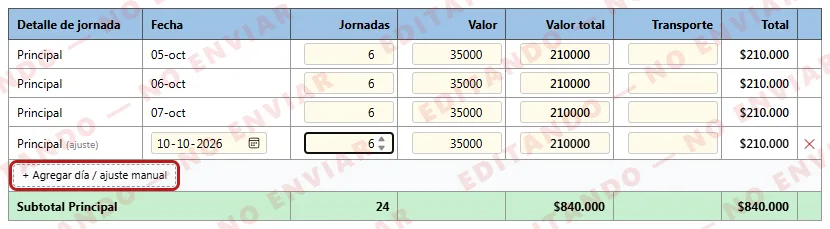
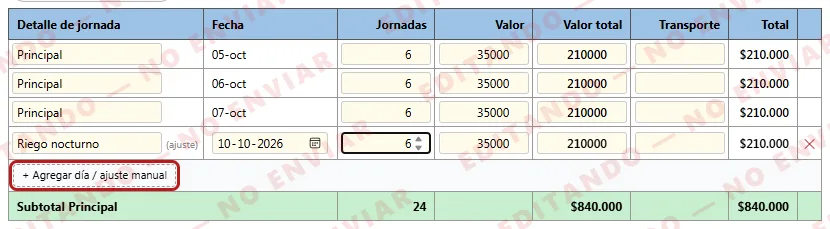
chargeDayDetail

diff --git a/src/screens/cycleDetail/cycleSummaryModal/LaborTable.jsx b/src/screens/cycleDetail/cycleSummaryModal/LaborTable.jsx
@@ -72,13 +72,14 @@ export function LaborTable({
   const columns = laborColumns(section, { mode, hiddenColumns, catalogs });
   const dataColumns = columns.filter((c) => c.key !== "detail" && c.key !== "date");
   const dateColumn = columns.find((c) => c.key === "date");
+  const detailColumn = columns.find((c) => c.key === "detail");
 
   // En una tabla fusionada cada fila trae su labor de origen (`_laborId`):
   // las ediciones vuelven a esa labor.
   const laborOf = (r) => r._laborId || laborId;
-  const handleField = (r, field, raw) => {
+  const handleField = (r, field, raw, text = false) => {
     if (!onEditRow) return;
-    const value = raw === "" ? "" : Number(raw);
+    const value = text || raw === "" ? raw : Number(raw);
     onEditRow(laborOf(r), r, { [field]: value });
   };
   const handleDateChange = (r, raw) => {
@@ -123,6 +124,17 @@ export function LaborTable({
     }
     const edit = editable && col.edit ? col.edit(r) : null;
     if (edit) {
+      if (edit.text) {
+        return (
+          <input
+            type="text"
+            value={edit.raw ?? ""}
+            onChange={(e) => handleField(r, edit.field, e.target.value, true)}
+            style={{ ...chargeInputStyle, width: 150, textAlign: "left" }}
+            title={edit.title}
+          />
+        );
+      }
       return (
         <input
           type="number"
@@ -167,8 +179,8 @@ export function LaborTable({
             const badge = dateColumn.badge(r);
             return (
               <tr key={rowKey} style={r.notCharged ? NOT_CHARGED_ROW : undefined} title={r.notCharged ? NOT_CHARGED_TITLE : undefined}>
-                <td style={cell}>
-                  {r._laborName || displayName}
+                <td style={{ ...cell, padding: editable ? 3 : "5px 8px" }}>
+                  {renderCell(detailColumn, r)}
                   {r.notCharged && (
                     <span style={{ color: "#888", marginLeft: 4, fontSize: 10 }}>(no se cobra)</span>
                   )}

diff --git a/src/utils/summaryTables.test.js b/src/utils/summaryTables.test.js
@@ -173,6 +173,23 @@ describe("laborColumns", () => {
     expect(cellText(cols[4], cols[4].value(section.rows[0]))).toBe("$10.000");
   });
 
+  it("en cobrar el detalle de cada día se edita y cae al nombre de la labor", () => {
+    const charge = chargeLaborsOf(laborsData, [], { LX: { rowOverrides: { [D2]: { detail: "Flete incluido" } } } }, {});
+    const sections = summarySections({ mode: "charge", labors: charge, carriers: [], titles, carrierById });
+    const detailColumnOf = (key) => {
+      const section = sections.find((s) => s.key === key);
+      return { section, col: laborColumns(section, { mode: "charge", catalogs: {} }).find((c) => c.key === "detail") };
+    };
+    const lm = detailColumnOf("LM");
+    expect(cellText(lm.col, lm.col.value(lm.section.rows[0]))).toBe("Principal");
+    const lx = detailColumnOf("LX");
+    expect(cellText(lx.col, lx.col.value(lx.section.rows[0]))).toBe("Flete incluido");
+    expect(lx.col.edit(lx.section.rows[0])).toMatchObject({ field: "detail", raw: "Flete incluido", text: true });
+    const [paySection] = summarySections({ mode: "pay", labors: laborsData, carriers: [], titles, carrierById });
+    const payDetail = laborColumns(paySection, { mode: "pay", catalogs: {} }).find((c) => c.key === "detail");
+    expect(payDetail.edit(paySection.rows[0])).toBe(null);
+  });
+
   it("respeta las columnas ocultas y solo deja editar en cobrar", () => {
     const charge = chargeLaborsOf(laborsData, [], {}, {});
     const [section] = summarySections({ mode: "charge", labors: charge, carriers: [], titles, carrierById });

diff --git a/src/utils/cycleCharge.js b/src/utils/cycleCharge.js
@@ -187,7 +187,10 @@ export function chargeLaborsOf(laborsData, importedLaborsData, laborCharges, cat
       const workerCount = ov.workerCount != null && ov.workerCount !== ""
         ? Number(ov.workerCount)
         : Number(r.workerCount) || 0;
-      const hasOverride = Object.keys(ov).length > 0;
+      // El detalle del día reemplaza al nombre de la labor; por sí solo no
+      // ajusta el cobro de la fila.
+      const chargedDetail = filled(ov.detail) ? String(ov.detail) : null;
+      const hasOverride = Object.keys(ov).some((k) => k !== "detail");
       return {
         ...r,
         notCharged: isNotCharged(hasOverride, amount + transport),
@@ -201,6 +204,7 @@ export function chargeLaborsOf(laborsData, importedLaborsData, laborCharges, cat
         chargedAmount: amount,
         chargedTransport: transport,
         chargedWorkerCount: workerCount,
+        chargedDetail,
         rowKey: newKey,
         isExtra: false,
         hasOverride,
@@ -246,6 +250,7 @@ export function chargeLaborsOf(laborsData, importedLaborsData, laborCharges, cat
         chargedAmount: amount,
         chargedTransport: Number(ex.transport) || 0,
         chargedWorkerCount: ex.workerCount != null && ex.workerCount !== "" ? Number(ex.workerCount) : 0,
+        chargedDetail: filled(ex.detail) ? String(ex.detail) : null,
         rowKey: `extra:${ex.id}`,
         isExtra: true,
         extraId: ex.id,

diff --git a/src/utils/cycleCharge.test.js b/src/utils/cycleCharge.test.js
@@ -62,6 +62,20 @@ describe("chargeLaborsOf: tarifa de cobro", () => {
     expect(cl.chargedTotals.workerDays).toBe(2 + 4);
   });
 
+  it("el detalle de un día se guarda por fila y por sí solo no ajusta el cobro", () => {
+    const cl = chargeOf(MAIN, mainDays, {
+      L1: {
+        rowOverrides: { [D1]: { detail: "Día de lluvia" } },
+        extraRows: [{ id: "x1", date: D3, qty: 1, rate: "", amount: "", detail: "Ajuste de prueba" }],
+      },
+    });
+    const [r1, r2, extra] = cl.chargedRows;
+    expect([r1.chargedDetail, r1.hasOverride, r1.notCharged]).toEqual(["Día de lluvia", false, false]);
+    expect([r2.chargedDetail, r2.hasOverride]).toEqual([null, false]);
+    expect(extra.chargedDetail).toBe("Ajuste de prueba");
+    expect(cl.chargedTotals.amount).toBe(50000 + 25000 + 25000);
+  });
+
   it("un día ajustado a $0 no se cobra ni suma a los totales", () => {
     const cl = chargeOf(MAIN, mainDays, { L1: { rowOverrides: { [D1]: { qty: 0 } } } });
     expect(cl.chargedRows.map((r) => [r.date, r.chargedAmount, r.notCharged])).toEqual([

diff --git a/src/utils/summaryTables.js b/src/utils/summaryTables.js
@@ -214,8 +214,16 @@ export function laborColumns(section, { mode, hiddenColumns = new Set(), catalog
   const rowTransport = (r) => (isCharge ? Number(r.chargedTransport) || 0 : 0);
   const editIf = (field, raw, extra = {}) => (isCharge ? { field, raw, ...extra } : null);
 
+  const detailOf = (r) => r.chargedDetail || r._laborName || displayName;
   const cols = [
-    { key: "detail", label: "Detalle de jornada", kind: "text", value: (r) => r._laborName || displayName },
+    {
+      key: "detail", label: "Detalle de jornada", kind: "text",
+      value: detailOf,
+      edit: (r) => editIf("detail", detailOf(r), {
+        text: true,
+        title: "Detalle de este día. Si lo dejas vacío, se usa el de la labor.",
+      }),
+    },
     { key: "date", label: "Fecha", kind: "text", value: (r) => dateLabel(r.date), badge: badgeOf },
   ];
   const chargesOvertime = (section.overtimeToggles || []).some((t) => t.on) || (isHE && !section.overtimeToggles);

diff --git a/src/screens/cycleDetail/cycleSummaryModal/useSummarySettings.js b/src/screens/cycleDetail/cycleSummaryModal/useSummarySettings.js
@@ -209,9 +209,9 @@ export function useSummarySettings({ cycle, cycleId, faena, open, subfaena, toas
 
   // Overrides por fila (cobrar). Cada labor guarda un mapa { rowKey -> patch }
   // con el rowKey de la fila del día: la fecha, o fecha y tier/etapa en trato
-  // y tratoEtapas. El patch puede traer qty, overtimeHours, rate, amount,
-  // transport o workerCount, todos opcionales; los que faltan toman el valor
-  // base. Las filas extra se editan en `extraRows`.
+  // y tratoEtapas. El patch puede traer detail, qty, overtimeHours, rate,
+  // amount, transport o workerCount, todos opcionales; los que faltan toman el
+  // valor base. Las filas extra se editan en `extraRows`.
   const updateChargeLaborRow = (laborId, rowKey, patch) => {
     setCharge((prev) => {
       const labor = prev.labors[laborId] || {};

diff --git a/docs/screens/summaries.md b/docs/screens/summaries.md
@@ -11,7 +11,7 @@
     - **Una labor al día también puede cobrar horas extras** (pago al día, supervisión y adicional; `DAY_LABOR_TYPES`, `utils/cycleCharge.js`): lleva el mismo interruptor, que parte apagado (`chargeOvertime: true` lo enciende). Encendido pide el **Valor hora** de la labor (`cobrar.labors[laborId].overtimeRate`) y suma la columna Horas extras, donde las horas de cada día se escriben a mano (`rowOverrides[date].overtimeHours`, o en una fila manual): la fila cobra jornadas × valor + horas × valor hora. Sin valor de la hora, las horas no suman y el campo se marca en rojo. En pagar no cambia nada.
     - **El interruptor** (`OvertimeSwitch`, en `LaborTable`) se ve solo en edición, sobre la tabla: verde encendido y gris apagado.
   - **Tarifa de cobro sugerida** (`chargeLaborsOf`): la mediana del precio por día de la labor, con el promedio como referencia en el editor de tarifas cuando difiere más de un 10%. En **tratoHE** es la tarifa HE de la labor (`overtimeRate`, o 3.500 si no tiene): la hora extra se cobra a lo mismo que se paga, sin ganancia. Cada fila se cobra como base + horas a cobrar × tarifa, sin los bonos. Una tarifa puesta en el editor manda sobre la sugerida.
-  - **Modo Cobrar editable inline**: cada fila de `LaborTable`/`TransportTable` muestra inputs editables (`<input type=number>`) en las celdas de Cantidad/Jornadas/HE/Valor/Valor total. Los overrides se persisten por ciclo en `cobrar.labors[laborId].rowOverrides[date] = { qty?, overtimeHours?, rate?, amount?, workdayCount?, workdayRate? }`. Vaciar un input vuelve al valor base. También se pueden **agregar filas manuales** ("+ Agregar día / ajuste manual") que se guardan en `cobrar.labors[laborId].extraRows[]` con un `id` único; arrancan con `qty/rate/amount = ""` (no `0`) para que el `computedAmount = qty × rate` se aplique en cuanto el usuario tipea — si arrancaran en `0`, el override `amount=0` bloquea la multiplicación y la fila queda en `$0`. Aparecen mezcladas en la tabla con badge `(ajuste)` y botón `✕` para eliminar. Para labores `trato`, las filas extra **heredan la `unit` dominante** del labor (la más frecuente entre las filas regulares) para que `formatRowMetric` muestre "X saco" en vez de solo "X". Mismo modelo para transportistas (`cobrar.carriers[carrierId].rowOverrides/extraRows`). El `grandTotalCharge` usa `chargedTotals.amount` (con los overrides aplicados).
+  - **Modo Cobrar editable inline**: cada fila de `LaborTable`/`TransportTable` muestra inputs editables en las celdas de **Detalle de jornada** (texto) y Cantidad/Jornadas/HE/Valor/Valor total (`<input type=number>`). Los overrides se persisten por ciclo en `cobrar.labors[laborId].rowOverrides[date] = { detail?, qty?, overtimeHours?, rate?, amount?, workdayCount?, workdayRate? }`. El `detail` de un día reemplaza al nombre de la labor solo en esa fila y no ajusta el cobro; vacío vuelve al nombre de la labor. Vaciar un input vuelve al valor base. También se pueden **agregar filas manuales** ("+ Agregar día / ajuste manual") que se guardan en `cobrar.labors[laborId].extraRows[]` con un `id` único; arrancan con `qty/rate/amount = ""` (no `0`) para que el `computedAmount = qty × rate` se aplique en cuanto el usuario tipea — si arrancaran en `0`, el override `amount=0` bloquea la multiplicación y la fila queda en `$0`. Aparecen mezcladas en la tabla con badge `(ajuste)` y botón `✕` para eliminar. Para labores `trato`, las filas extra **heredan la `unit` dominante** del labor (la más frecuente entre las filas regulares) para que `formatRowMetric` muestre "X saco" en vez de solo "X". Mismo modelo para transportistas (`cobrar.carriers[carrierId].rowOverrides/extraRows`). El `grandTotalCharge` usa `chargedTotals.amount` (con los overrides aplicados).
     - **Un día ajustado a $0 no se cobra** (`notCharged`, `utils/cycleCharge.js`): las jornadas, la cantidad, el valor o las vueltas en 0 dejan la fila fuera de los totales, y `summarySections` la saca del resumen bloqueado, de lo que se copia o imprime y del 📊 Excel. En Editando se ve en gris con "(no se cobra)", para volver a cobrarla escribiendo el valor de nuevo. Sirve para cobrar solo los días nuevos de un ciclo que ya se cobró en parte. En tratoHE, un día con las jornadas en 0 sigue mientras cobre horas extras. Las filas manuales no cuentan.
   - **Candado 🔒 Bloqueado / ✏ Editando (solo modo Cobrar)**: control segmentado en la barra superior; `editMode` **arranca en `false`** (bloqueado). Bloqueado = el resumen no se toca: sin inputs por fila, sin botones `+`/`✕`, y los paneles "Personalizar títulos", "Editar tarifas cobro" e "Importar ciclos anteriores" ni se muestran. En Editando se renderiza una **marca de agua "EDITANDO — NO ENVIAR"** (componente `EditingWatermark`) *dentro* del nodo `printRef`, para que marque cualquier screenshot manual, y **📋 Copiar imagen / 📥 Descargar PNG / 🖨 Imprimir quedan bloqueados**: abren un `ConfirmDialog` con acción "Bloquear y copiar/descargar/imprimir" que apaga `editMode` y recién después captura (espera dos `requestAnimationFrame` — capturar en el mismo handler sacaría el DOM viejo, con los inputs). **📊 Excel no se bloquea**: se arma desde los datos (las mismas secciones y columnas que la tabla), no del DOM, así que no lleva inputs ni marca de agua. En modo Pagar no existe el candado.
   - **Observaciones por día (solo pagar)**: anexo al pie del printable con las anotaciones que en la grilla del ciclo solo se ven pasando el mouse por el encabezado de cada fecha. Agrupadas por día y, dentro del día, una línea por labor. Va **después del total** a propósito: es contexto de la jornada, no parte del cálculo.

diff --git a/docs/data-model.md b/docs/data-model.md
@@ -637,7 +637,7 @@ Colección aparte y no un campo en `cycles` porque los docs de `cycles` se traen
 | Campo | Tipo | Notas |
 |---|---|---|
 | `id` (docId) | ref→`cycles` | el cycleId |
-| `cobrar` | object | `{ labors, carriers, withIva, discount, discountNote, pendingBalance, pendingBalanceNote, hiddenColumns, shownColumns }` — ver `labors[laborId].rowOverrides/extraRows` en `docs/screens/summaries.md`. `hiddenColumns` son las columnas que se ocultaron y `shownColumns`, las que empiezan ocultas (`personas`) y se mostraron. En tratoHE, un override o una fila manual puede traer `workdayCount` y `workdayRate` (jornadas y valor de la jornada que se cobran), y `labors[laborId].chargeOvertime: false` deja de cobrar las horas extras de la labor. En una labor al día (pago al día, supervisión o adicional) es al revés: `chargeOvertime: true` le cobra horas extras, a `labors[laborId].overtimeRate` (el valor de la hora) por las `overtimeHours` de cada override o fila manual. `labors[laborId].mergeInto?: laborId` muestra esa labor dentro de la tabla de otra (solo presentación). `importedLabors?: [{ id, sourceCycleId, sourceCycleLabel, sourceLaborId, labor, rows, containers, redDates }]` son labores de otros ciclos copiadas al resumen: la definición de la labor (sin `workers` ni `bonusDefaults`, con `id` propio `imp_…`) y sus filas diarias; sus tarifas y ajustes van en `labors[id]` como los de cualquier labor. Una versión anterior importaba como filas en `labors[laborId].extraRows[]` con `sourceCycleId`/`sourceCycleLabel`: esas filas siguen leyéndose |
+| `cobrar` | object | `{ labors, carriers, withIva, discount, discountNote, pendingBalance, pendingBalanceNote, hiddenColumns, shownColumns }` — ver `labors[laborId].rowOverrides/extraRows` en `docs/screens/summaries.md`. `hiddenColumns` son las columnas que se ocultaron y `shownColumns`, las que empiezan ocultas (`personas`) y se mostraron. Un override o una fila manual puede traer `detail` (el detalle de ese día, que reemplaza al nombre de la labor; por sí solo no ajusta el cobro). En tratoHE, un override o una fila manual puede traer `workdayCount` y `workdayRate` (jornadas y valor de la jornada que se cobran), y `labors[laborId].chargeOvertime: false` deja de cobrar las horas extras de la labor. En una labor al día (pago al día, supervisión o adicional) es al revés: `chargeOvertime: true` le cobra horas extras, a `labors[laborId].overtimeRate` (el valor de la hora) por las `overtimeHours` de cada override o fila manual. `labors[laborId].mergeInto?: laborId` muestra esa labor dentro de la tabla de otra (solo presentación). `importedLabors?: [{ id, sourceCycleId, sourceCycleLabel, sourceLaborId, labor, rows, containers, redDates }]` son labores de otros ciclos copiadas al resumen: la definición de la labor (sin `workers` ni `bonusDefaults`, con `id` propio `imp_…`) y sus filas diarias; sus tarifas y ajustes van en `labors[id]` como los de cualquier labor. Una versión anterior importaba como filas en `labors[laborId].extraRows[]` con `sourceCycleId`/`sourceCycleLabel`: esas filas siguen leyéndose |
 | `titles` | object | `{ main, subtitle, laborNames, carrierNames }` |
 | `updatedAt` | timestamp | escrito con `serverTimestamp()` en cada guardado debounced |
 | `updatedBy`, `updatedByEmail` | string \| null | quién lo tocó al final; se muestra en el header del modal |

diff --git a/src/screens/help/guides/resumen-del-ciclo.md b/src/screens/help/guides/resumen-del-ciclo.md
@@ -34,12 +34,13 @@ En la grilla del ciclo, toca **📊 Resumen ciclo**. Arriba se elige **Para paga
 Lo que se cambia en el cobro se guarda para todo el equipo: quien abra el resumen después lo ve igual, y **Última edición** dice quién lo cambió y cuándo. No cambia lo que se paga.
 
 ## Ajustar un día o agregar uno
-<!-- preguntas: corregir la cantidad a cobrar; agregar un día al cobro; ajuste manual; cobrar un día que no está; cambiar el valor de un día -->
+<!-- preguntas: corregir la cantidad a cobrar; agregar un día al cobro; ajuste manual; cobrar un día que no está; cambiar el valor de un día; cambiar el detalle de un día -->
 
-Con **✏ Editando**, cada fila del cobro se puede cambiar: la cantidad, el valor o el total. Vaciar un campo vuelve al valor de la grilla.
+Con **✏ Editando**, cada fila del cobro se puede cambiar: el **detalle de la jornada** (el nombre que sale en esa fila), la cantidad, el valor o el total. Vaciar un campo vuelve al valor de la grilla.
 
 ![Un día ajustado, en edición](help/resumen-del-ciclo/04-ajustar.webp)
 
+- **Detalle de jornada** cambia el nombre de esa fila; vacío vuelve al nombre de la labor.
 - **+ Agregar día / ajuste manual** suma una fila, marcada **(ajuste)**, que se quita con **✕**.
 - En una jornada con horas extras, **Cobrar horas extras** decide si las horas se cobran o solo las jornadas.
 - Mientras se edita, el resumen lleva la marca **EDITANDO — NO ENVIAR**.
